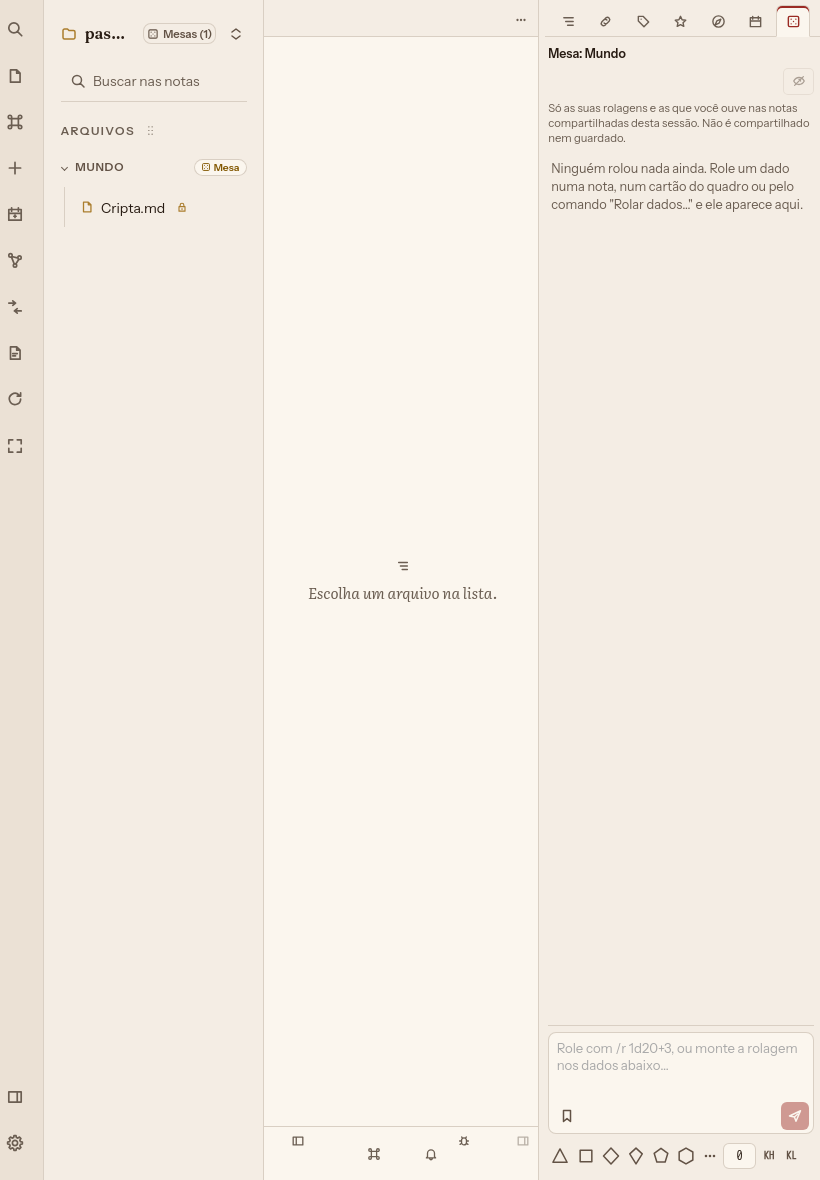
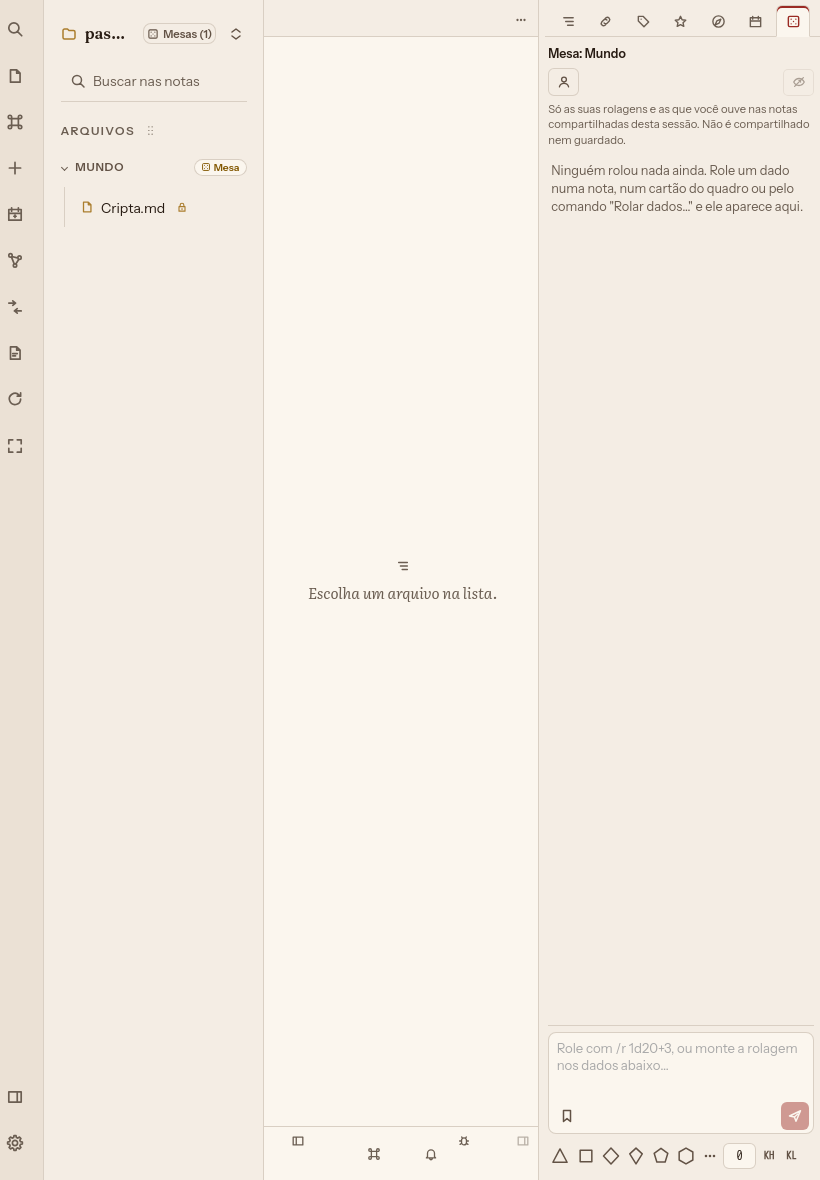
Review follow-ups: table-opened reaches share players, synced readers get the lock and notice, ADR 0110 as built, invitation landing for whole-folder members, notice under drawers, subfolder table window in the panel

Changed region(s): [[0.6707, 0.061, 0.9756, 0.1831]]

diff --git a/app/ui/src/keys.ts b/app/ui/src/keys.ts
@@ -9,7 +9,7 @@ import { insertBase, newBase } from "./bases";
 import { importFiles } from "./importFiles";
 import { imp } from "./importStrings";
 import { commands } from "./bindings";
-import { can, canWrite } from "./can";
+import { can, canChange } from "./can";
 import { trashStrings } from "./dialogs/trash";
 import { showWorldWizard } from "./dialogs/worldWizard";
 import { historyFor, openHistory } from "./dialogs/history";
@@ -221,7 +221,7 @@ export function runHotkey(e: KeyboardEvent): boolean {
     // A key of a command that changes the folder, in a folder one only
     // reads: the command is absent; the word says why (readerNotice.ts).
     const gone = allCommands(true).find((c) => WRITES.has(c.id) && keyOf(c.id) === combo);
-    if (gone && !canWrite() && !ui.search.disabled) {
+    if (gone && !canChange() && !ui.search.disabled) {
       e.preventDefault();
       readerAttempt(e.target instanceof Element ? e.target : null);
       return true;
@@ -297,7 +297,7 @@ export function allCommands(all = false): Command[] {
     { id: "reindex", label: t.reindex, need: hasFolder, run: () => void reindex() },
     { id: "graph-vault", label: t.graphWhole, need: hasFolder, run: () => (pane ?? paneToOpenIn()).openGraph("") },
     // The folder's trash (ADR 0080 item 4): for whoever may change the folder.
-    { id: "open-trash", label: trashStrings().open, need: hasFolder && canWrite(), run: () => settingsDialog.show("trash") },
+    { id: "open-trash", label: trashStrings().open, need: hasFolder && canChange(), run: () => settingsDialog.show("trash") },
     // A file's version history (ADR 0091 item 5): for whoever may write it.
     { id: "version-history", label: historyStrings().command, need: historyFor(leaf?.path), run: () => leaf?.path && void openHistory(leaf.path) },
     { id: "report-bug", label: t.reportBug, run: () => bugDialog.show() },
@@ -368,7 +368,7 @@ const WRITES = new Set([
 /** Whether a command means something here (ADR 0076 items 2 and 11): the
  *  side can do it, and a phone shows more than one pane at a time. */
 function possible(id: string): boolean {
-  if (WRITES.has(id)) return canWrite();
+  if (WRITES.has(id)) return canChange();
   if (id === "split-right" || id === "split-down" || id === "maximize") return !narrow.matches;
   if (id === "new-window" || id === "new-window-here") return can("windows");
   if (id === "open-console") return can("devtools") && !narrow.matches;

diff --git a/app/ui/src/table/view.ts b/app/ui/src/table/view.ts
@@ -29,6 +29,7 @@ import { tableLabel } from "./which";
 import { tt } from "./strings";
 import { ts } from "./trayStrings";
 import { campaign, isTableRoot, makeTable, tableFor } from "../campaign";
+import { tableAt } from "../campaignParts";
 import { openCampaignDialog } from "../campaignDialog";
 import { cp } from "../campaignStrings";
 import { mayShare } from "../shares";
@@ -223,14 +224,16 @@ class TableView {
       b.title = ts.makeTableWhy;
       b.addEventListener("click", () => void makeTable(""));
       this.make.append(b);
-    } else if (mayShare() && isTableRoot("")) {
+    } else if (mayShare() && (isTableRoot("") || pick().current !== null)) {
+      // The table the panel is at: the folder's own, or a subfolder's.
+      const at = isTableRoot("") ? "" : (pick().current ?? "");
       // In the top row, beside the roster: the icon always, the words when the panel is wide enough (table.css).
       const b = button("ghost table-win-button", ts.openTableWindow, "user");
       b.append(h("span", "table-win-label", ts.openTableWindow));
       b.setAttribute("aria-label", ts.openTableWindow);
-      b.addEventListener("click", () => openCampaignDialog(""));
+      b.addEventListener("click", () => openCampaignDialog(at));
       // Closed, the game master sees it where the table is (players wait outside).
-      if (tableFor("")?.open === false) this.win.append(h("span", "table-closed-pill", cp.closedTag));
+      if (tableAt(at)?.open === false) this.win.append(h("span", "table-closed-pill", cp.closedTag));
       this.win.append(b);
     } else if (!isServerTable(src) && !mayShare()) {
       line = src.notice?.() ? null : ts.noTableLocal;

diff --git a/app/ui/css/web.css b/app/ui/css/web.css
@@ -123,8 +123,8 @@ body.web-mode { display: block; overflow: auto; height: auto; min-height: 100dvh
 /* ---------- Plain HTTP, said (ADR 0073 item 6, amended 2026-10-16) ---------- */
 .plain-http-line { margin: 0 0 1rem; font-size: .8rem; line-height: 1.45; color: var(--ink-3); }
 .plain-http-how { align-self: auto; display: inline; border: 0; background: none; padding: 0; font: inherit; color: var(--seal); text-decoration: underline; cursor: pointer; }
-/* Below the tab row, never over its controls: 2.45rem on a desktop, 44 px on a phone. Under every dialog and overlay (.quick is 10): it hid the top of the table window (2026-10-23). */
-.plain-http-bar { position: fixed; top: calc(max(8px, env(safe-area-inset-top)) + 2.45rem); left: 50%; transform: translateX(-50%); z-index: 9; max-width: calc(100vw - 32px); box-sizing: border-box;
+/* Below the tab row, never over its controls: 2.45rem on a desktop, 44 px on a phone. Under every dialog, overlay (.quick is 10) and phone drawer (8): it hid the top of the table window (2026-10-23). */
+.plain-http-bar { position: fixed; top: calc(max(8px, env(safe-area-inset-top)) + 2.45rem); left: 50%; transform: translateX(-50%); z-index: 7; max-width: calc(100vw - 32px); box-sizing: border-box;
   display: flex; flex-wrap: wrap; align-items: center; gap: .3rem .5rem; padding: .35rem .5rem .35rem .8rem; font-size: .8rem; line-height: 1.4;
   background: var(--paper); color: var(--ink-2); border: 1px solid var(--hair); border-radius: 8px; box-shadow: 0 8px 24px -10px oklch(0% 0 0 / .3); }
 @media (max-width: 760px) { .plain-http-bar { top: calc(max(8px, env(safe-area-inset-top)) + 44px); } }

diff --git a/app/ui/src/layout/pane.ts b/app/ui/src/layout/pane.ts
@@ -48,6 +48,12 @@ export class Pane {
   readonly tools = h("div", "pane-tools");
   readonly body = h("div", "pane-body");
   readonly empty = h("div", "pane-empty");
+  /** Stops the empty hint following the pointer kind; set when the pane is built. */
+  private stopEmptyHint: () => void = () => {};
+  /** The pane left the layout: what it listens to on the page goes. */
+  dispose(): void {
+    this.stopEmptyHint();
+  }
   readonly leaves: Leaf[] = [];
   readonly tabsDivider = h("div", "tabs-divider");
   /** With the tab bar hidden, a phone has nothing to open its menu from: a
@@ -162,10 +168,11 @@ export class Pane {
     });
     // Dragging a tab here is for a mouse: a phone or a finger on the screen is told only to pick a file.
     const hint = h("p", "", t.emptyPane);
-    const touch = window.matchMedia("(pointer: coarse), (max-width: 760px)");
+    const touch = window.matchMedia("(pointer: coarse)");
     const say = () => void (hint.textContent = touch.matches ? t.emptyPaneTouch : t.emptyPane);
     say();
     touch.addEventListener("change", say);
+    this.stopEmptyHint = () => touch.removeEventListener("change", say);
     this.empty.append(icon("outline"), hint);
     this.body.append(this.empty);
     const restore = h("button", "ghost tabs-restore-button");

diff --git a/app/ui/src/can.ts b/app/ui/src/can.ts
@@ -70,6 +70,27 @@ export function canWrite(): boolean {
   return can("write");
 }
 
+/** The open folder is synced here and the person only reads it on its
+ *  server (`verso:sync-state`): the window's own `canWrite` stays true, the
+ *  server refuses the writes, so the lock and the notice must still say so. */
+let syncedRead = false;
+export function readsSynced(): boolean {
+  return syncedRead;
+}
+addEventListener("verso:sync-state", (e) => {
+  const d = (e as CustomEvent<{ on?: boolean; role?: string }>).detail;
+  const now = Boolean(d?.on) && d?.role === "reader";
+  if (now === syncedRead) return;
+  syncedRead = now;
+  for (const run of listeners) run();
+});
+
+/** The person may change the folder from this window: it writes, and the
+ *  folder is not one they only read through a sync. */
+export function canChange(): boolean {
+  return canWrite() && !syncedRead;
+}
+
 /** Which side the window talks to: the desktop app or a server. */
 export function host(): Host {
   return known.host;

diff --git a/app/ui/src/screen/frame.ts b/app/ui/src/screen/frame.ts
@@ -11,7 +11,7 @@
 // the controls it shows and what they do.
 
 import { mayEditGranted } from "../campaign";
-import { canWrite, can, loadCan, onCan } from "../can";
+import { canWrite, can, loadCan, onCan, readsSynced } from "../can";
 import { narrow, paintExpanded, toggleRight, toggleSide } from "../chrome";
 import { button, h, ui } from "../dom";
 import { newUntitled } from "../files";
@@ -152,7 +152,7 @@ function paintReadOnly(): void {
   // the person is theirs to edit, so the lock says nothing there; on a note
   // they only read, or with none open, it shows.
   const path = layout().activeLeaf?.path ?? "";
-  folderLock.hidden = canWrite() || ui.search.disabled || (path !== "" && mayEditGranted(path));
+  folderLock.hidden = (canWrite() && !readsSynced()) || ui.search.disabled || (path !== "" && mayEditGranted(path));
 }
 
 function applyCan(): void {

diff --git a/app/ui/src/files.ts b/app/ui/src/files.ts
@@ -7,7 +7,7 @@ import { sh } from "./shareStrings";
 import { convertFileSrc } from "@tauri-apps/api/core";
 import { commands, type PropertyValue } from "./bindings";
 import { changeBookmarks } from "./bookmarks";
-import { canWrite, host } from "./can";
+import { canChange, host } from "./can";
 import { afterFileChange, flushed, stopped } from "./changes";
 import { templateText } from "./daily";
 import { ask } from "./dialog";
@@ -49,7 +49,7 @@ import { offerTemplates } from "./templatePicker";
  *  or bin a file stop here, whatever reached them — a menu, a key, a drop
  *  (ADR 0076 item 11). Says why, once. */
 export function readable(): boolean {
-  if (canWrite()) return true;
+  if (canChange()) return true;
   ui.status.textContent = st.readOnly;
   readerAttempt();
   return false;

diff --git a/app/ui/src/readerNotice.ts b/app/ui/src/readerNotice.ts
@@ -13,7 +13,7 @@
 
 import { EditorView } from "@codemirror/view";
 import type { Extension } from "@codemirror/state";
-import { canWrite } from "./can";
+import { canChange } from "./can";
 import { mayEditGranted } from "./campaign";
 import { h } from "./dom";
 import { st } from "./screen/strings";
@@ -33,7 +33,7 @@ export type Attempt = { x: number; y: number } | Element | null | undefined;
 /** Whether a change to `path` (a note, or none: the folder) is refused to
  *  this person. A note granted to them (ADR 0110) is theirs to edit. */
 export function refused(path?: string | null): boolean {
-  return !canWrite() && !(path ? mayEditGranted(path) : false);
+  return !canChange() && !(path ? mayEditGranted(path) : false);
 }
 
 function place(el: HTMLElement, at: Attempt): void {

diff --git a/app/ui/src/tableClosed.ts b/app/ui/src/tableClosed.ts
@@ -54,7 +54,14 @@ export function showTableClosed(retry: () => Promise<boolean>, haveFolder: boole
   tryNow = attempt;
   if (!hearing) {
     hearing = true;
-    void listen("table-opened", () => tryNow?.());
+    void listen<{ folder?: string }>("table-opened", (e) => {
+      // The news of another folder's table is not this one's: a page that names the folder it waits on
+      // (a browser: `?folder=`) tries only for it.
+      const waiting = new URLSearchParams(location.search).get("folder");
+      const told = e.payload?.folder;
+      if (waiting !== null && typeof told === "string" && told !== waiting) return;
+      tryNow?.();
+    });
   }
   if (!shown?.isConnected) {
     page?.classList.add("empty");

diff --git a/app/ui/src/layout/drag.ts b/app/ui/src/layout/drag.ts
@@ -2,7 +2,7 @@
 // License, v. 2.0. If a copy of the MPL was not distributed with this
 // file, You can obtain one at https://mozilla.org/MPL/2.0/.
 
-import { canWrite } from "../can";
+import { canChange } from "../can";
 import { narrow } from "../chrome";
 import { h, ui } from "../dom";
 import { moveFile, moveEntries } from "../files";
@@ -313,7 +313,7 @@ export function drop(d: Drag, target: DropTarget, x: number, y: number, shiftKey
   // A row of the tree moves a file: not for a reader on a server (ADR 0076
   // item 11). A roll of the table is written into a note or a board, which
   // the same permission governs.
-  if (!canWrite()) {
+  if (!canChange()) {
     readerAttempt({ x, y });
     return;
   }

diff --git a/app/ui/src/layout/layout.ts b/app/ui/src/layout/layout.ts
@@ -72,6 +72,7 @@ export class Layout {
     if (!parent) return;
     const i = parent.children.findIndex((c) => c.kind === "pane" && c.pane === pane);
     parent.children.splice(i, 1);
+    pane.dispose();
     this.collapse();
     if (this.maximized === pane) this.maximized = null;
     this.render();

diff --git a/crates/verso-server/src/campaign_cmds.rs b/crates/verso-server/src/campaign_cmds.rs
@@ -198,23 +198,44 @@ pub async fn command(
     // A table opened: the players waiting outside hear it at once, not at
     // their next try.
     if cmd == "campaign_settings" && args["open"] == true {
-        opened(server, &folder, &who.account.id).await;
+        let root: String = arg(&args, "root")?;
+        opened(server, &folder, &root, &who.account.id).await;
     }
     status(server, who, client).await
 }
 
-/// The table of `folder` was opened by `owner`: every other member's
-/// signed-in windows are told, which is what a player shut out by a closed
-/// table waits for (their window tries to enter again on it). The message
-/// names the folder and nothing else.
-async fn opened(server: &Arc<Server>, folder: &str, owner: &str) {
-    let (s, f) = (Arc::clone(server), folder.to_owned());
-    let members = blocking(move || s.db.members(&f).map_err(failed))
-        .await
-        .unwrap_or_default();
-    let message = json!({ "event": "table-opened", "payload": { "folder": folder } });
+/// The table at `root` of `folder` was opened by `owner`: every other
+/// member's signed-in windows are told, and those of the people on a share
+/// that reaches the table (a share inside the table, the table's own, or
+/// one over it — never another subfolder's), which is what a player shut
+/// out by a closed table waits for (their window tries to enter again on
+/// it). The message names the id the person opens (the folder's, or the
+/// share's) and nothing else.
+async fn opened(server: &Arc<Server>, folder: &str, root: &str, owner: &str) {
+    let (s, f, r) = (Arc::clone(server), folder.to_owned(), root.to_owned());
+    let (members, shared) = blocking(move || {
+        let members = s.db.members(&f).map_err(failed)?;
+        let mut shared = Vec::new();
+        for share in s.db.shares_of(&f).map_err(failed)? {
+            let inside =
+                share.path == r || r.is_empty() || share.path.starts_with(&format!("{r}/"));
+            let over = share.path.is_empty() || r.starts_with(&format!("{}/", share.path));
+            if inside || over {
+                for (account, _) in s.db.share_people(&share.id).map_err(failed)? {
+                    shared.push((account.id, share.id.clone()));
+                }
+            }
+        }
+        Ok((members, shared))
+    })
+    .await
+    .unwrap_or_default();
+    let told = |id: &str| json!({ "event": "table-opened", "payload": { "folder": id } });
     for (account, _) in members.iter().filter(|(a, _)| a.id != owner) {
-        server.push_sessions(&account.id, &message);
+        server.push_sessions(&account.id, &told(folder));
+    }
+    for (account, share) in shared.iter().filter(|(a, _)| a != owner) {
+        server.push_sessions(account, &told(share));
     }
 }
 
